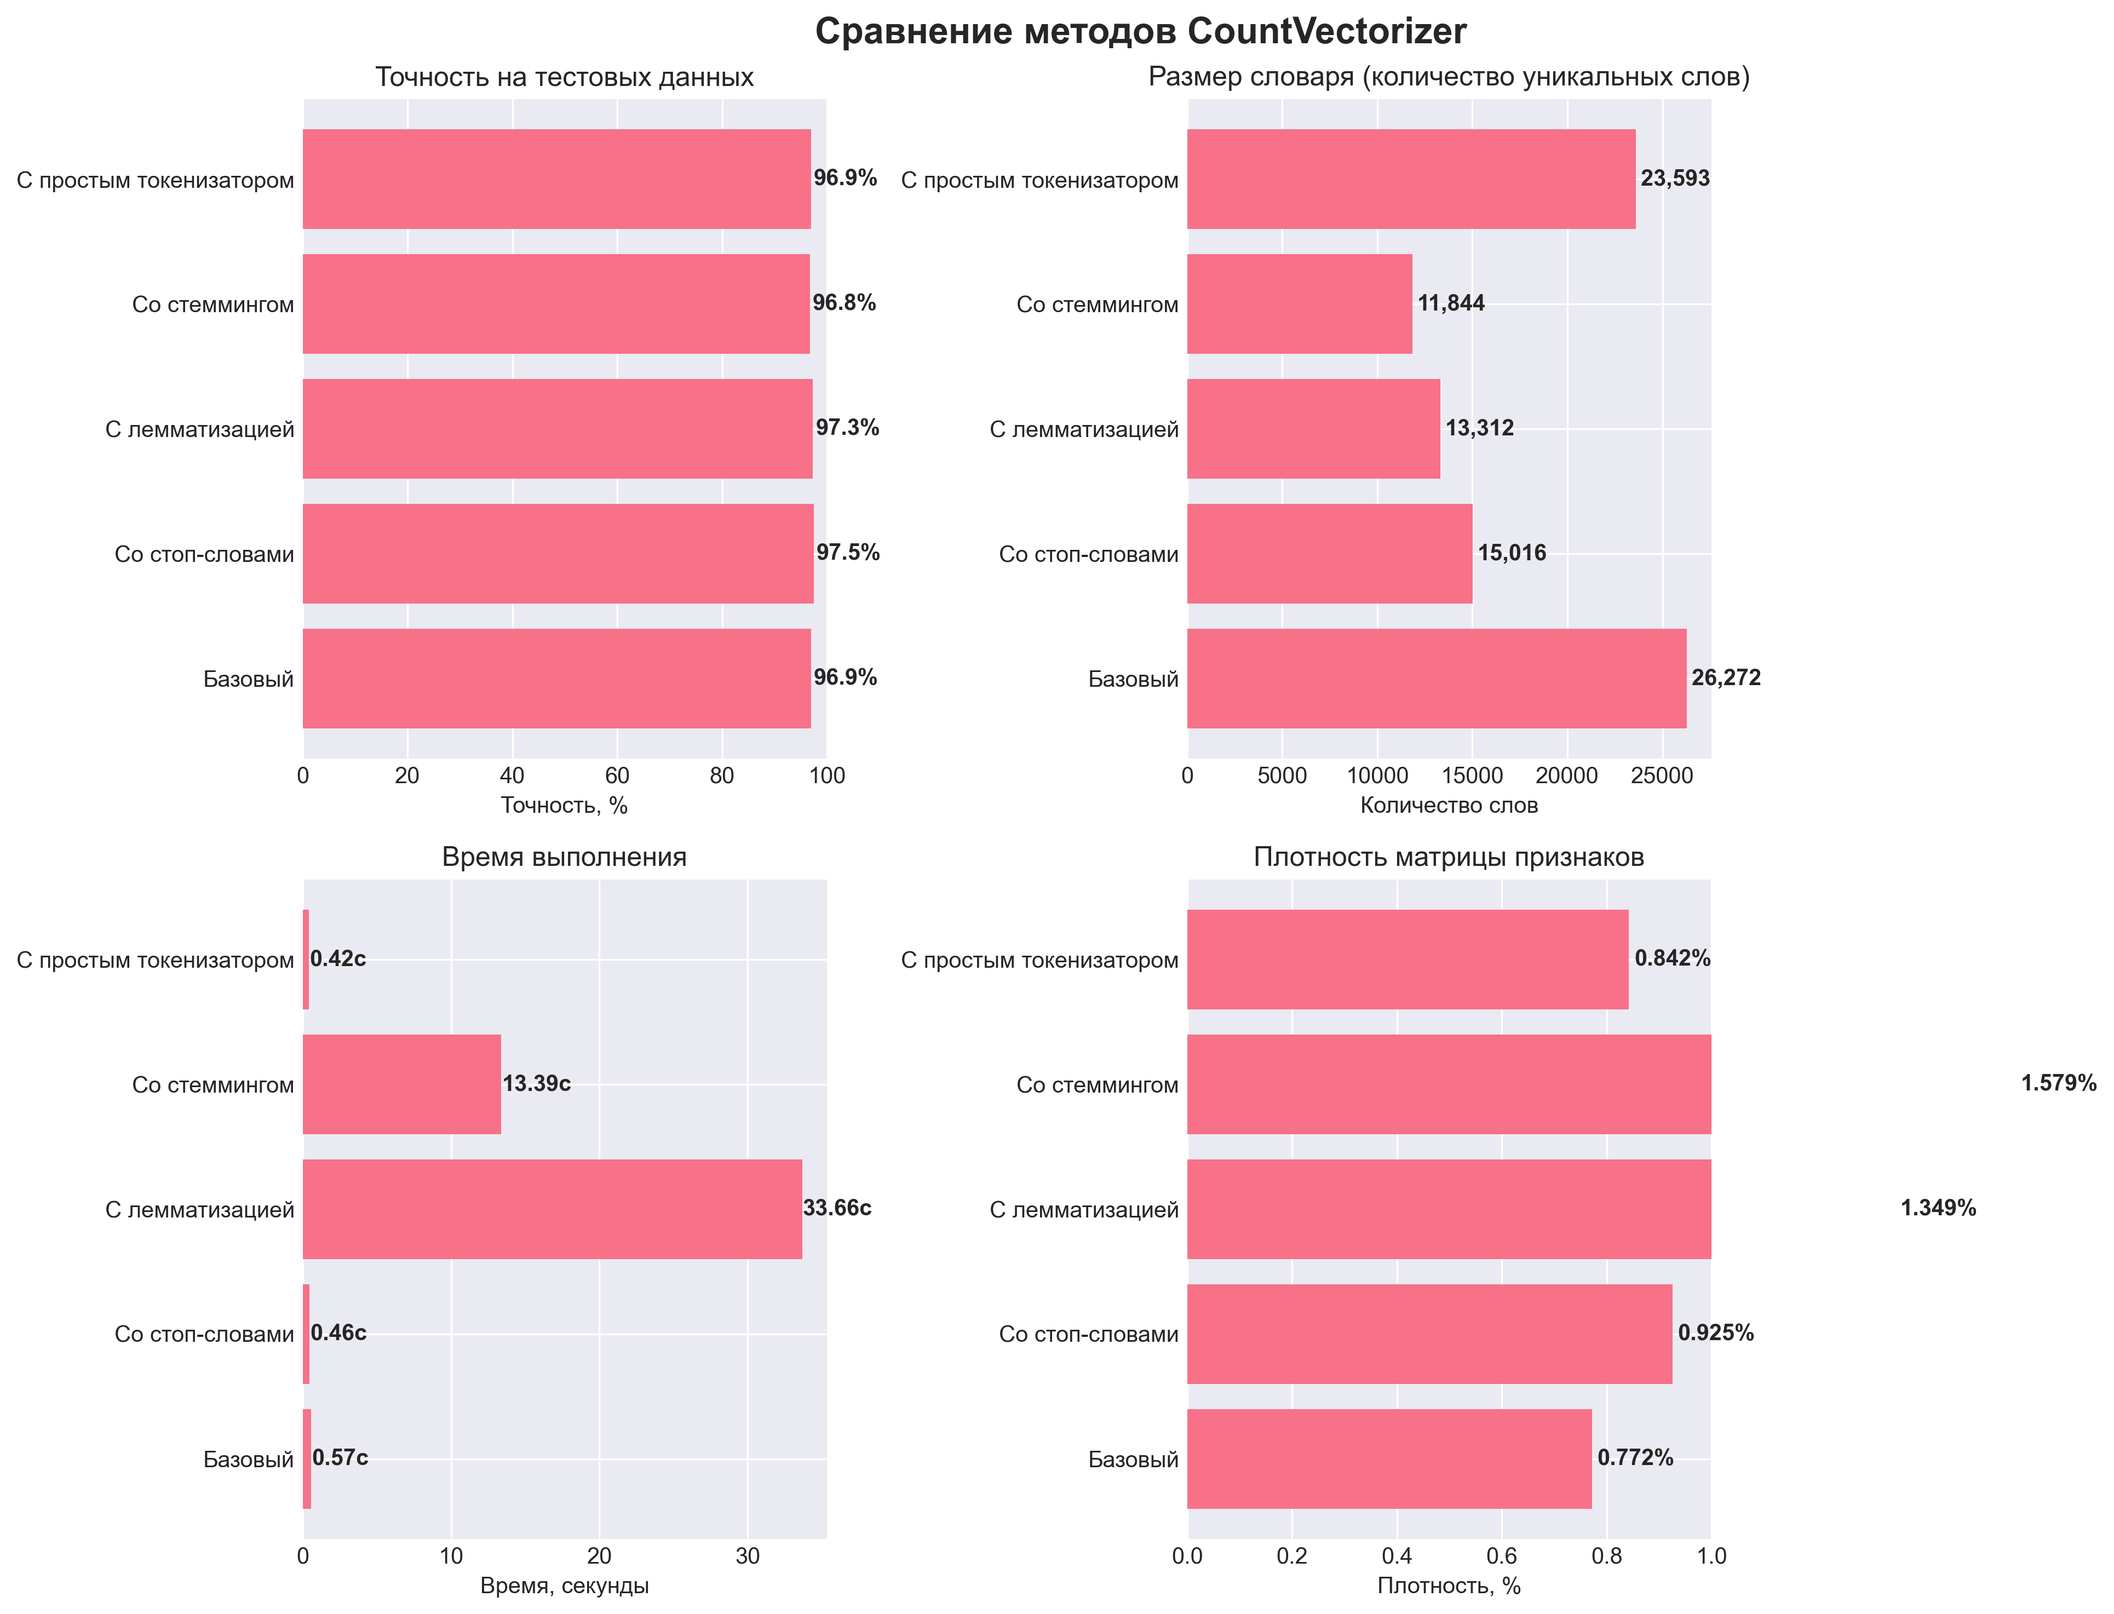
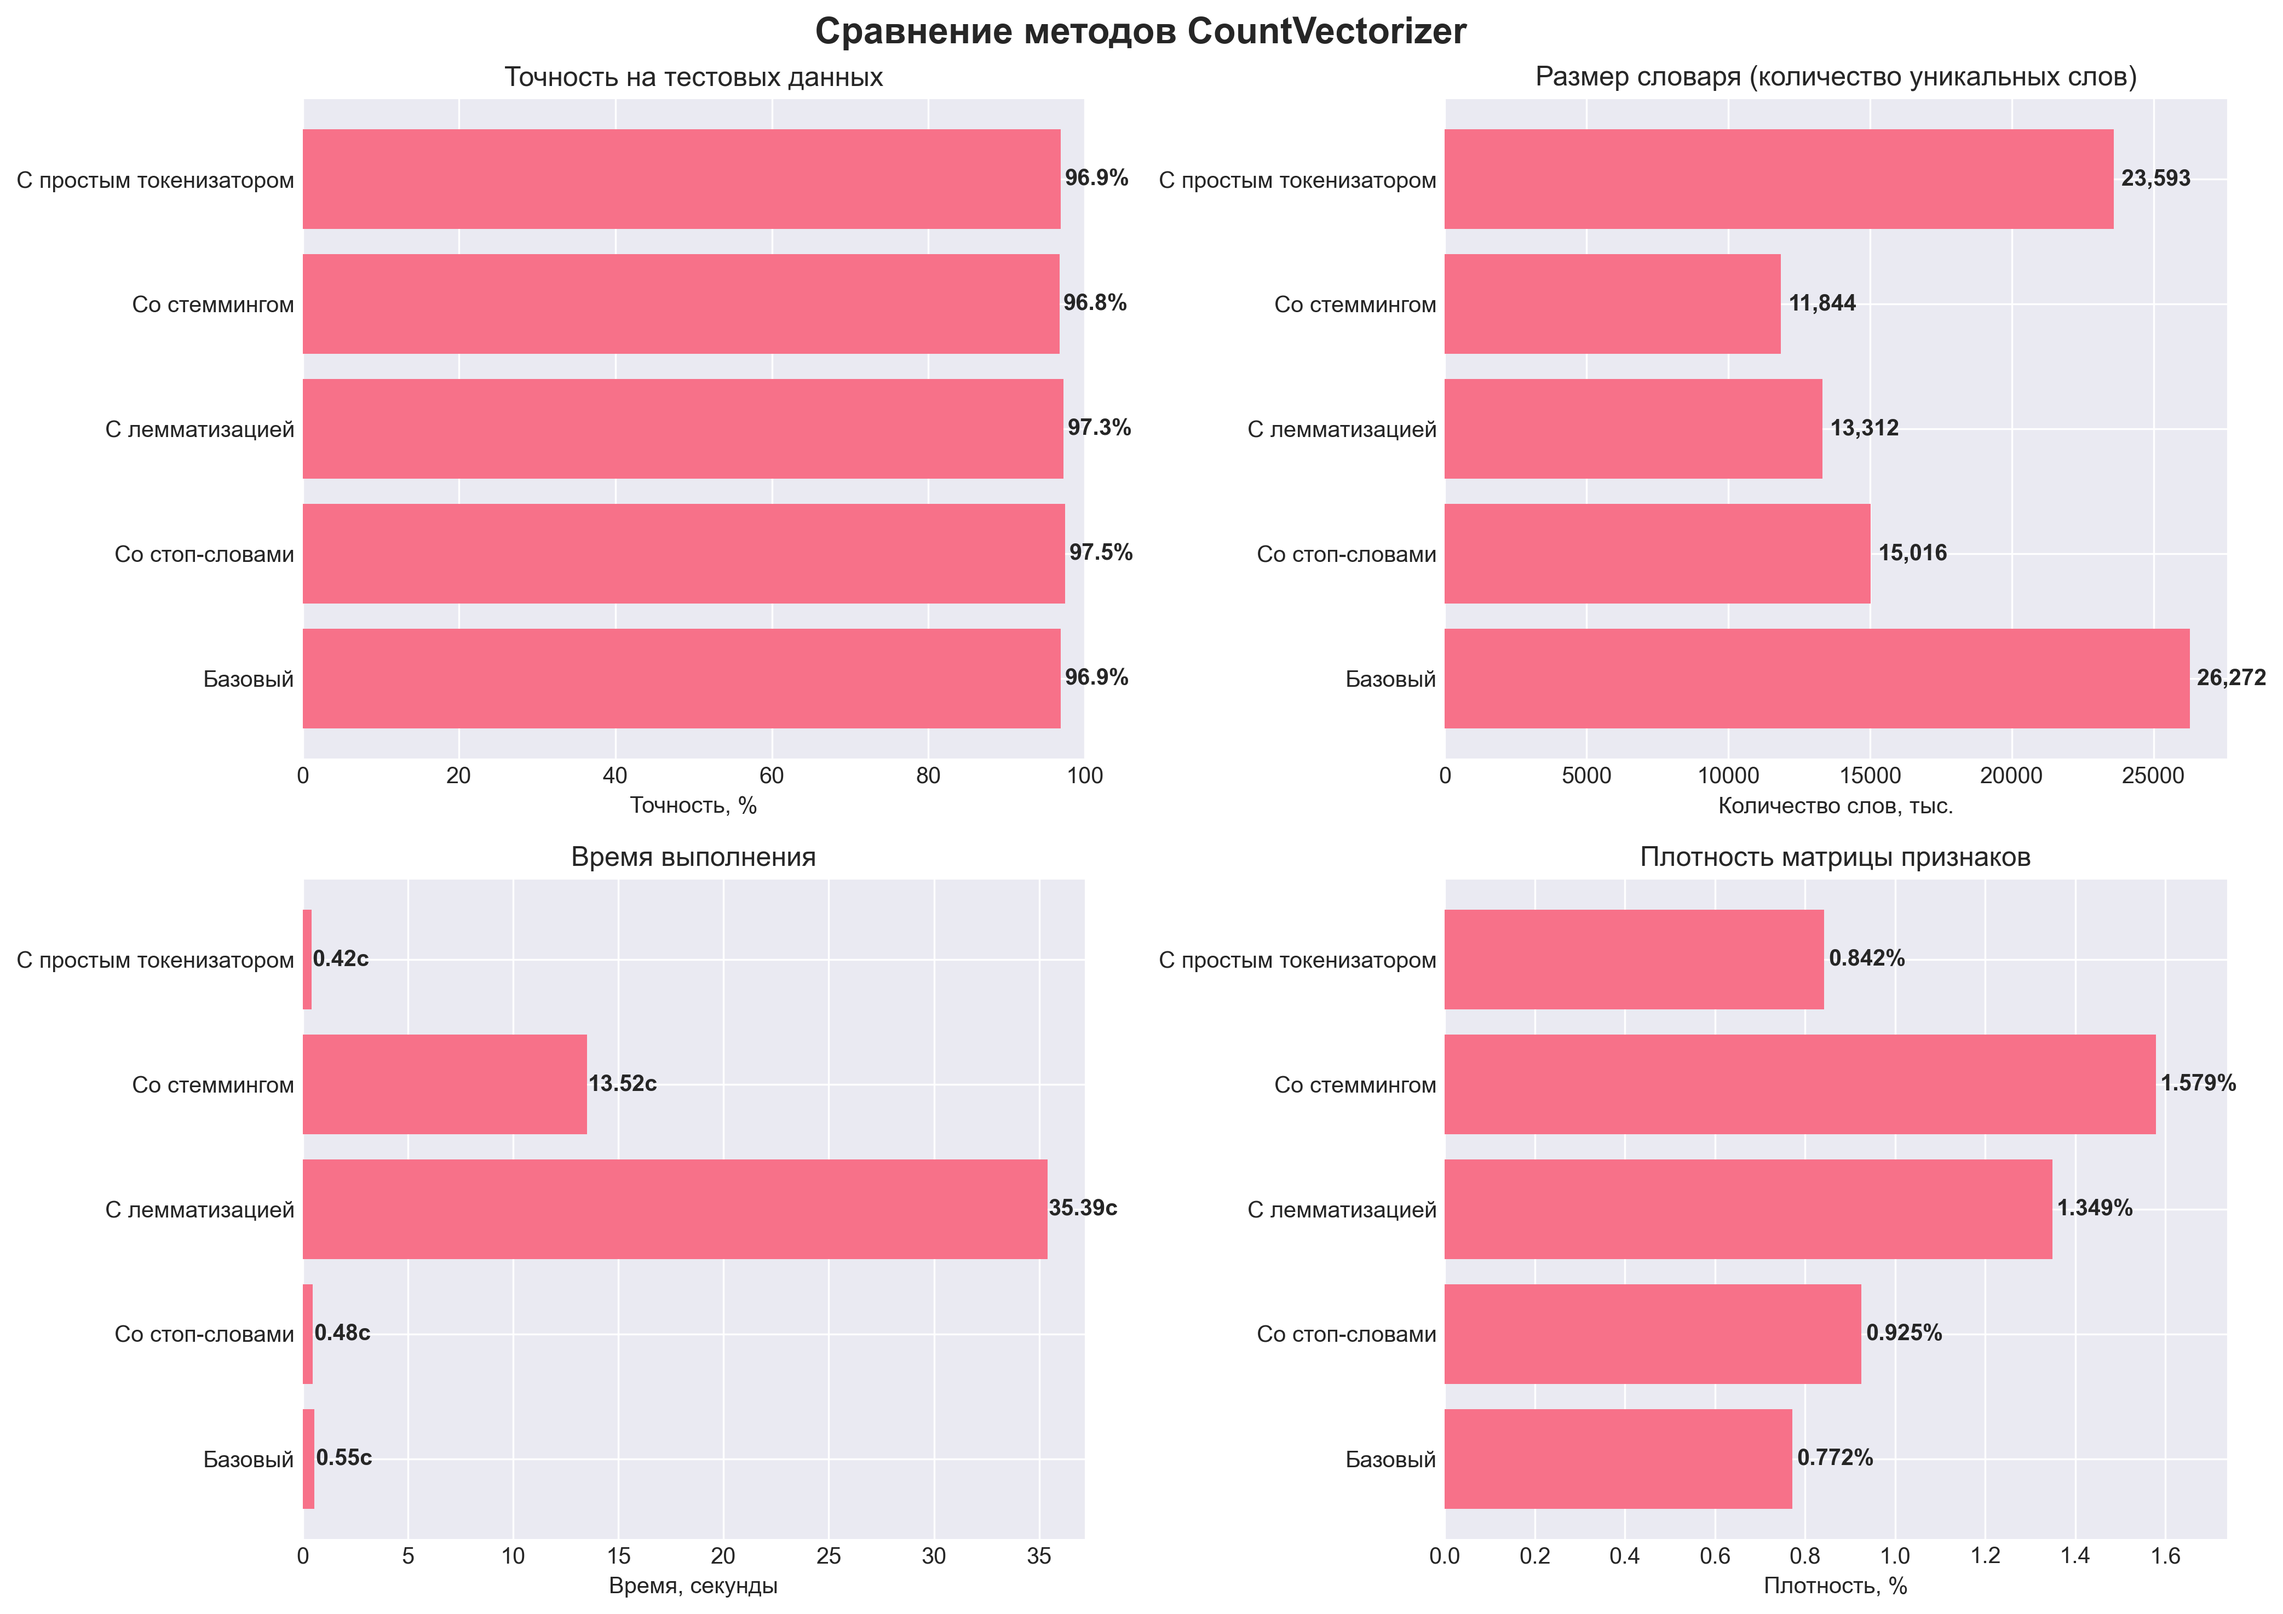
fix: adjust x-axis limit for density plot in visualization

diff --git a/main.py b/main.py
@@ -193,7 +193,8 @@ def visualize_results(results_df):
         bars = ax4.barh(results_df['method_name'], results_df['density_percent'])
         ax4.set_xlabel('Плотность, %')
         ax4.set_title('Плотность матрицы признаков')
-        ax4.set_xlim([0, 1])  # Обычно плотность < 1%
+        max_density = results_df['density_percent'].max()
+        ax4.set_xlim([0, max_density * 1.1])
 
         # Добавляем значения на столбцы
         for bar, value in zip(bars, results_df['density_percent']):
@@ -246,19 +247,13 @@ def print_detailed_comparison(results):
     headers = ["Метод", "Train Acc", "Test Acc", "Словарь", "Плотность", "Время"]
     print(tabulate(table_data, headers=headers, tablefmt="grid"))
 
-    # Выводим выводы
+    # Выводим вывод
     print("\n" + "="*80)
-    print("ВЫВОДЫ:")
+    print("ВЫВОД:")
     print("="*80)
 
     best_method = df.iloc[0]
     print(f"Лучший метод: {best_method['method_name']} с точностью {best_method['test_accuracy']:.2f}%")
-
-    print("\nНаблюдения:")
-    print("1. Размер словаря влияет на время выполнения и качество модели")
-    print("2. Удаление стоп-слов обычно уменьшает размерность")
-    print("3. Лемматизация и стемминг могут улучшить или ухудшить качество")
-    print("4. Простой токенизатор самый быстрый, но может быть менее точным")
 
     # Сохраняем результаты в CSV
     results_dir = 'results'
